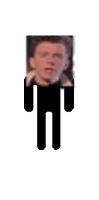
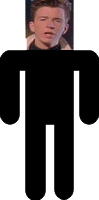
Got frequency shifting kinda working

diff --git a/src/main.js b/src/main.js
@@ -3,6 +3,7 @@ import {RotatingImage} from "./RotatingImage";
 import {Vector} from "./Vector";
 import {dopplerShift} from "./DopplerShift";
 import {RotatingTranslatedImage} from "./RotatingTranslatedImage";
+import {FrequencyShifter} from "./FrequencyShifter";
 
 const SPEAKER_ANGULAR_VELOCITY = 1;
 const SCALE = 0.1;
@@ -33,7 +34,20 @@ class Main {
         document.getElementById("tone-button").addEventListener("onclick", () => this.setOutputTypeTone());
         document.getElementById("mp3-button").addEventListener("onclick", () => this.setOutputTypeMp3());
 
+        this.konami = new Konami(() => this.rickroll());
+        
+        this.rickrolled = false;
+
+        this.shifter = undefined;
+        this.setOutputTypeTone();
+
         window.requestAnimationFrame(() => this.render());
+    }
+
+    rickroll() {
+        this.rickrolled = true;
+        this.speaker.image = this.images.rick;
+        this.createMusicNodeAndShifter("http://here-and-now.info/audio/rickastley_artists.mp3");
     }
 
     loadImage(url) {
@@ -47,33 +61,47 @@ class Main {
         this.mainCanvas.ctx.clearRect(0, 0, this.mainCanvas.width, this.mainCanvas.height);
         this.backWheel.updateImage(this.getSpeakerAngularVelocity());
         this.wheel.updateImage(this.getObserverAngularVelocity());
-        let startX = (this.images.pinwheel.width / 2) * Math.cos(this.wheel.angularLoc);
-        let startY = (this.images.pinwheel.height / 2) * Math.sin(this.wheel.angularLoc);
-        let speakerVelocity = this.getSpeakerAngularVelocity() * this.mainCanvas.width / 2;
-        this.speakerVel = new Vector(speakerVelocity * Math.cos(this.wheel.angularLoc + Math.PI / 2),
-            speakerVelocity * Math.sin(this.wheel.angularLoc + Math.PI / 2));
-        let observerVelocity = this.getObserverAngularVelocity() * this.mainCanvas.width / 2;
-        this.observerVel = new Vector(observerVelocity * Math.cos(this.wheel.angularLoc + Math.PI / 2),
-            observerVelocity * Math.sin(this.wheel.angularLoc + Math.PI / 2));
-        this.observerVec = new Vector((Math.cos(this.obs.angularLoc) * this.obs.radius) + (this.mainCanvas.width / 2), (Math.sin(this.obs.angularLoc) * this.obs.radius) + (this.mainCanvas.height / 2));
-        this.speakerVec = new Vector((Math.cos(this.speaker.angularLoc) * this.speaker.radius) + (this.mainCanvas.width / 2), (Math.sin(this.speaker.angularLoc) * this.speaker.radius) + (this.mainCanvas.height / 2));
-        this.posVec = this.observerVec.sub(this.speakerVec);
-        this.posVec2 = this.speakerVec.sub(this.observerVec);
-
-        console.log(+document.getElementById('origin-frequency').value * dopplerShift(this.observerVel.component(this.posVec2) * SCALE, this.speakerVel.component(this.posVec) * SCALE, 343));
-        //console.log(this.speakerVel.component(this.posVec) * SCALE);
         this.obs.updateImage(this.getObserverAngularVelocity());
         this.speaker.updateImage(this.getSpeakerAngularVelocity());
-       // console.log(document.getElementById("tone-button").checked);
+        if (this.inputNode.frequency) {
+            this.inputNode.frequency.value = this.getFrequency();
+        }
+        this.shifter.setShift(this.dopplerScale());
         window.requestAnimationFrame(() => this.render());
     }
 
     setOutputTypeTone() {
-
+        if (!this.rickrolled) {
+            if (this.shifter) {
+                this.shifter.stop();
+            }
+            let context = new AudioContext();
+            this.inputNode = context.createOscillator();
+            this.inputNode.frequency.value = this.getFrequency();
+            this.inputNode.start();
+            this.shifter = new FrequencyShifter(context, this.inputNode, context.destination);
+            this.audio = undefined;
+        }
     }
 
     setOutputTypeMp3() {
-        
+        if (!this.rickrolled) {
+            this.createMusicNodeAndShifter(this.getMp3Url());
+        }
+    }
+    
+    createMusicNodeAndShifter(url) {
+        if (this.shifter) {
+            this.shifter.stop();
+        }
+        let context = new AudioContext();
+        this.audio = new Audio(url);
+        this.audio.crossOrigin = "anonymous";
+        this.audio.autoplay = true;
+        this.audio.loop = true;
+        this.audio.play();
+        this.inputNode = context.createMediaElementSource(this.audio);
+        this.shifter = new FrequencyShifter(context, this.inputNode, context.destination);
     }
 
     getSpeakerAngularVelocity() {
@@ -84,8 +112,28 @@ class Main {
         return SPEAKER_ANGULAR_VELOCITY * (+document.getElementById("observer-velocity").value);
     }
 
+    getMp3Url() {
+        return document.getElementById("url-text");
+    }
+
+    getFrequency() {
+        return (+document.getElementById("origin-frequency").value);
+    }
+
     dopplerScale() {
-        return dopplerShift(0, this.speakerVel.component(this.posVec) * SCALE, 343);
+        let startX = (this.images.pinwheel.width / 2) * Math.cos(this.wheel.angularLoc);
+        let startY = (this.images.pinwheel.height / 2) * Math.sin(this.wheel.angularLoc);
+        let speakerVelocity = this.getSpeakerAngularVelocity() * this.mainCanvas.width / 2;
+        let speakerVel = new Vector(speakerVelocity * Math.cos(this.wheel.angularLoc + Math.PI / 2),
+            speakerVelocity * Math.sin(this.wheel.angularLoc + Math.PI / 2));
+        let observerVelocity = this.getObserverAngularVelocity() * this.mainCanvas.width / 2;
+        let observerVel = new Vector(observerVelocity * Math.cos(this.wheel.angularLoc + Math.PI / 2),
+            observerVelocity * Math.sin(this.wheel.angularLoc + Math.PI / 2));
+        let observerVec = new Vector((Math.cos(this.obs.angularLoc) * this.obs.radius) + (this.mainCanvas.width / 2), (Math.sin(this.obs.angularLoc) * this.obs.radius) + (this.mainCanvas.height / 2));
+        let speakerVec = new Vector((Math.cos(this.speaker.angularLoc) * this.speaker.radius) + (this.mainCanvas.width / 2), (Math.sin(this.speaker.angularLoc) * this.speaker.radius) + (this.mainCanvas.height / 2));
+        let posVec = observerVec.sub(speakerVec);
+        let posVec2 = speakerVec.sub(observerVec);
+        return dopplerShift(0, speakerVel.component(posVec) * SCALE, 343);
     }
 }
 

diff --git a/static/konami.js b/static/konami.js
@@ -1,0 +1,56 @@
+/*
+ * Konami-JS ~
+ * :: Now with support for touch events and multiple instances for
+ * :: those situations that call for multiple easter eggs!
+ * Code: https://github.com/snaptortoise/konami-js
+ * Examples: http://www.snaptortoise.com/konami-js
+ * Copyright (c) 2009 George Mandis (georgemandis.com, snaptortoise.com)
+ * Version: 1.4.5 (3/2/2016)
+ * Licensed under the MIT License (http://opensource.org/licenses/MIT)
+ * Tested in: Safari 4+, Google Chrome 4+, Firefox 3+, IE7+, Mobile Safari 2.2.1 and Dolphin Browser
+ */
+
+var Konami = function (callback) {
+    var konami = {
+        addEvent: function (obj, type, fn, ref_obj) {
+            if (obj.addEventListener)
+                obj.addEventListener(type, fn, false);
+            else if (obj.attachEvent) {
+                // IE
+                obj["e" + type + fn] = fn;
+                obj[type + fn] = function () {
+                    obj["e" + type + fn](window.event, ref_obj);
+                };
+                obj.attachEvent("on" + type, obj[type + fn]);
+            }
+        },
+        input: "",
+        pattern: "38384040373937396665",
+        load: function (link) {
+            this.addEvent(document, "keydown", function (e, ref_obj) {
+                if (ref_obj) konami = ref_obj; // IE
+                konami.input += e ? e.keyCode : event.keyCode;
+                if (konami.input.length > konami.pattern.length)
+                    konami.input = konami.input.substr((konami.input.length - konami.pattern.length));
+                console.log(konami.input);
+                if (konami.input == konami.pattern) {
+                    konami.code(link);
+                    konami.input = "";
+                    e.preventDefault();
+                    return false;
+                }
+            }, this);
+        },
+        code: function (link) {
+            window.location = link
+        }
+    };
+
+    typeof callback === "string" && konami.load(callback);
+    if (typeof callback === "function") {
+        konami.code = callback;
+        konami.load();
+    }
+
+    return konami;
+};

diff --git a/src/FrequencyShifter.js b/src/FrequencyShifter.js
@@ -9,23 +9,30 @@ export class FrequencyShifter {
         this.shiftMultiplier = 1;
         inputNode.connect(this.processorNode);
         this.processorNode.connect(outputNode);
+        this.inputNode = inputNode;
     }
 
     setShift(mul) {
         this.shiftMultiplier = mul;
     }
 
+    stop() {
+        this.processorNode.disconnect();
+        this.inputNode.disconnect();
+        this.audioContext.close();
+    }
+
     processAudio(event) {
-        let outputData = [];
-        outputData[0] = event.outputBuffer.getChannelData(0);
-        let inputData = [];
-        inputData[0] = event.inputBuffer.getChannelData(0);
+        let outputBuffer = event.outputBuffer;
+        let inputBuffer = event.inputBuffer;
 
-        this.shifter.process(this.shiftMultiplier, inputdata[0].length, 4, inputdata[0]);
-
-        let outData = outputData[0];
-        for (i = 0; i < outData.length; ++i) {
-            outData[i] = this.shifter.outdata[i];
+        for (let channel = 0; channel < outputBuffer.numberOfChannels; channel++) {
+            let inputData = inputBuffer.getChannelData(channel);
+            let outputData = outputBuffer.getChannelData(channel);
+            this.shifter.process(this.shiftMultiplier, inputData.length, 4, inputData);
+            for (let i = 0; i < outputData.length; ++i) {
+                outputData[i] = this.shifter.outdata[i];
+            }
         }
     }
 }

diff --git a/static/index.html b/static/index.html
@@ -9,15 +9,17 @@
     <canvas width="1000" height="1000" id="main-canvas"></canvas>
     <input id="tone-button" type="radio" name="tone-type" value="tone" checked="checked">Tone<br>
     <input id="mp3-button"  type="radio" name="tone-type" value="mp3">Mp3<br>
-    <input type="text" name="url">
+    <input id="url-text" type="text" name="url">
     <h4>Speaker Velocity</h4>
     <input type="range" id="speaker-velocity" min="-5" max="5" step="0.1">
     <h4>Observer Velocity</h4>
     <input type="range" id="observer-velocity" min="-5" max="5" step="0.1">
     <h4>Emitted Frequency</h4>
     <input type="range" id="origin-frequency" min="50" max="250" step="0.1">
+    <script src="konami.js"></script>
     <script src="dsp.js"></script>
     <script src="pitchshift.js"></script>
     <script src="main.js"></script>
+    <audio id="rickroll" src="http://here-and-now.info/audio/rickastley_artists.mp3" loop="true"></audio>
 </body>
 </html>

diff --git a/static/pitchshift.js b/static/pitchshift.js
@@ -96,6 +96,7 @@ Pitchshift.prototype.process = function (pitchShift, numSampsToProcess, osamp, i
 
         /* now we have enough data for processing */
         if (this.gRover_ >= this.fftFrameSize_) {
+            console.log("hi");
 
             this.gRover_ = inFifoLatency;
 
